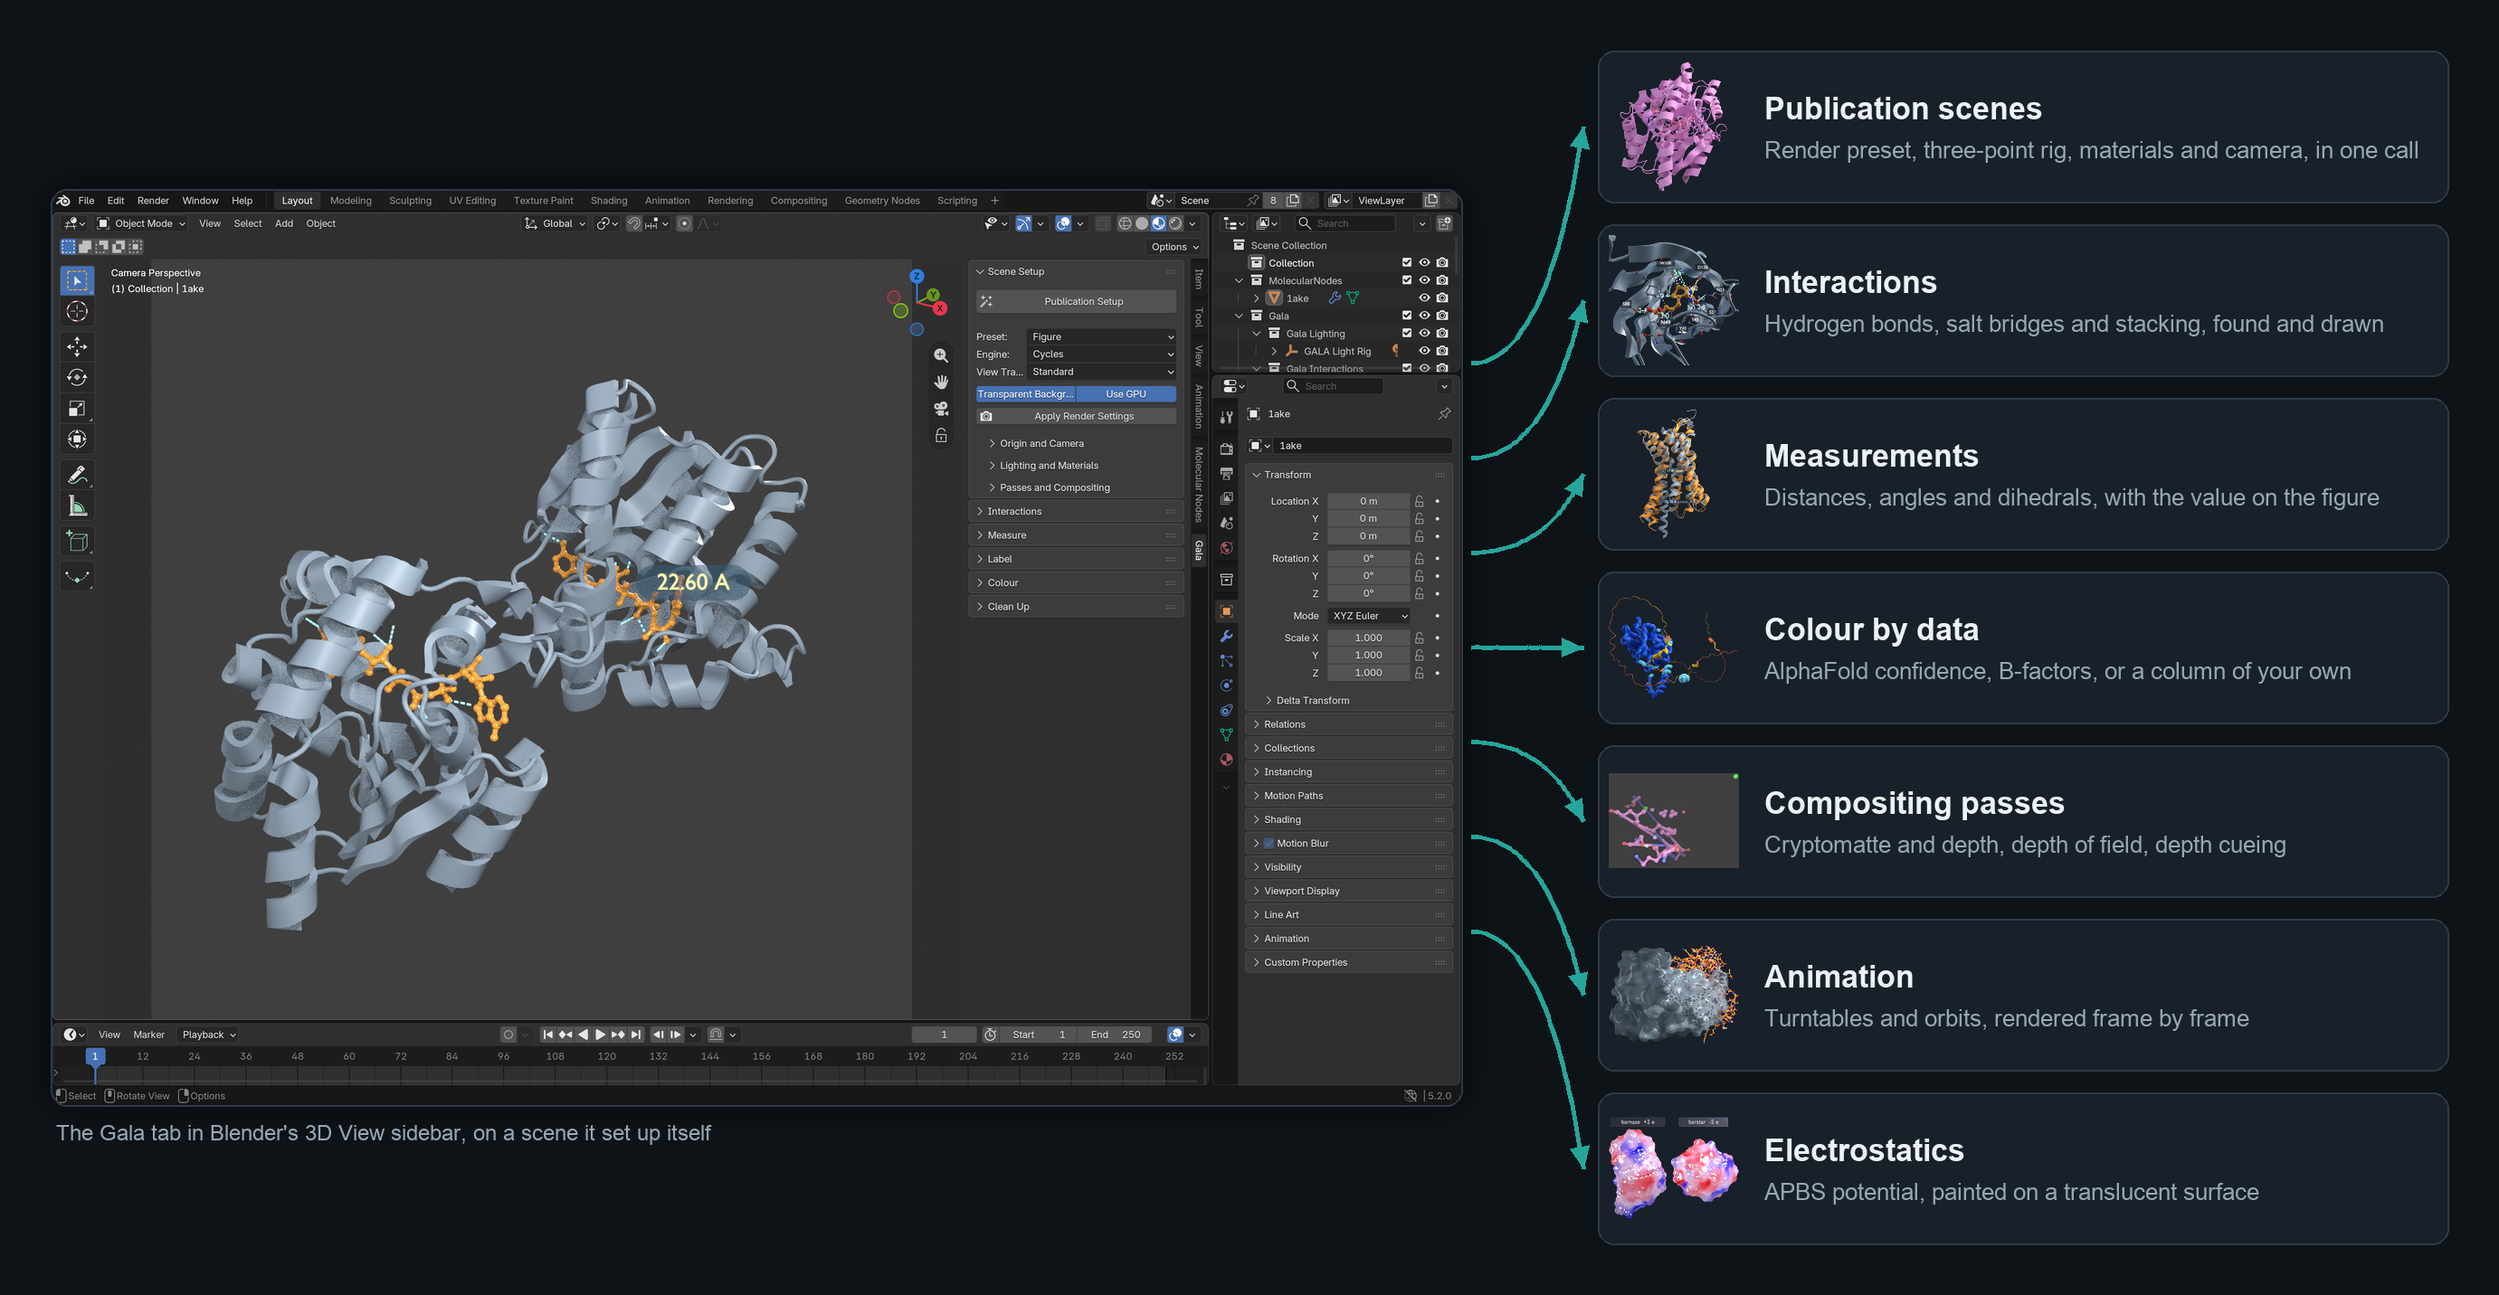
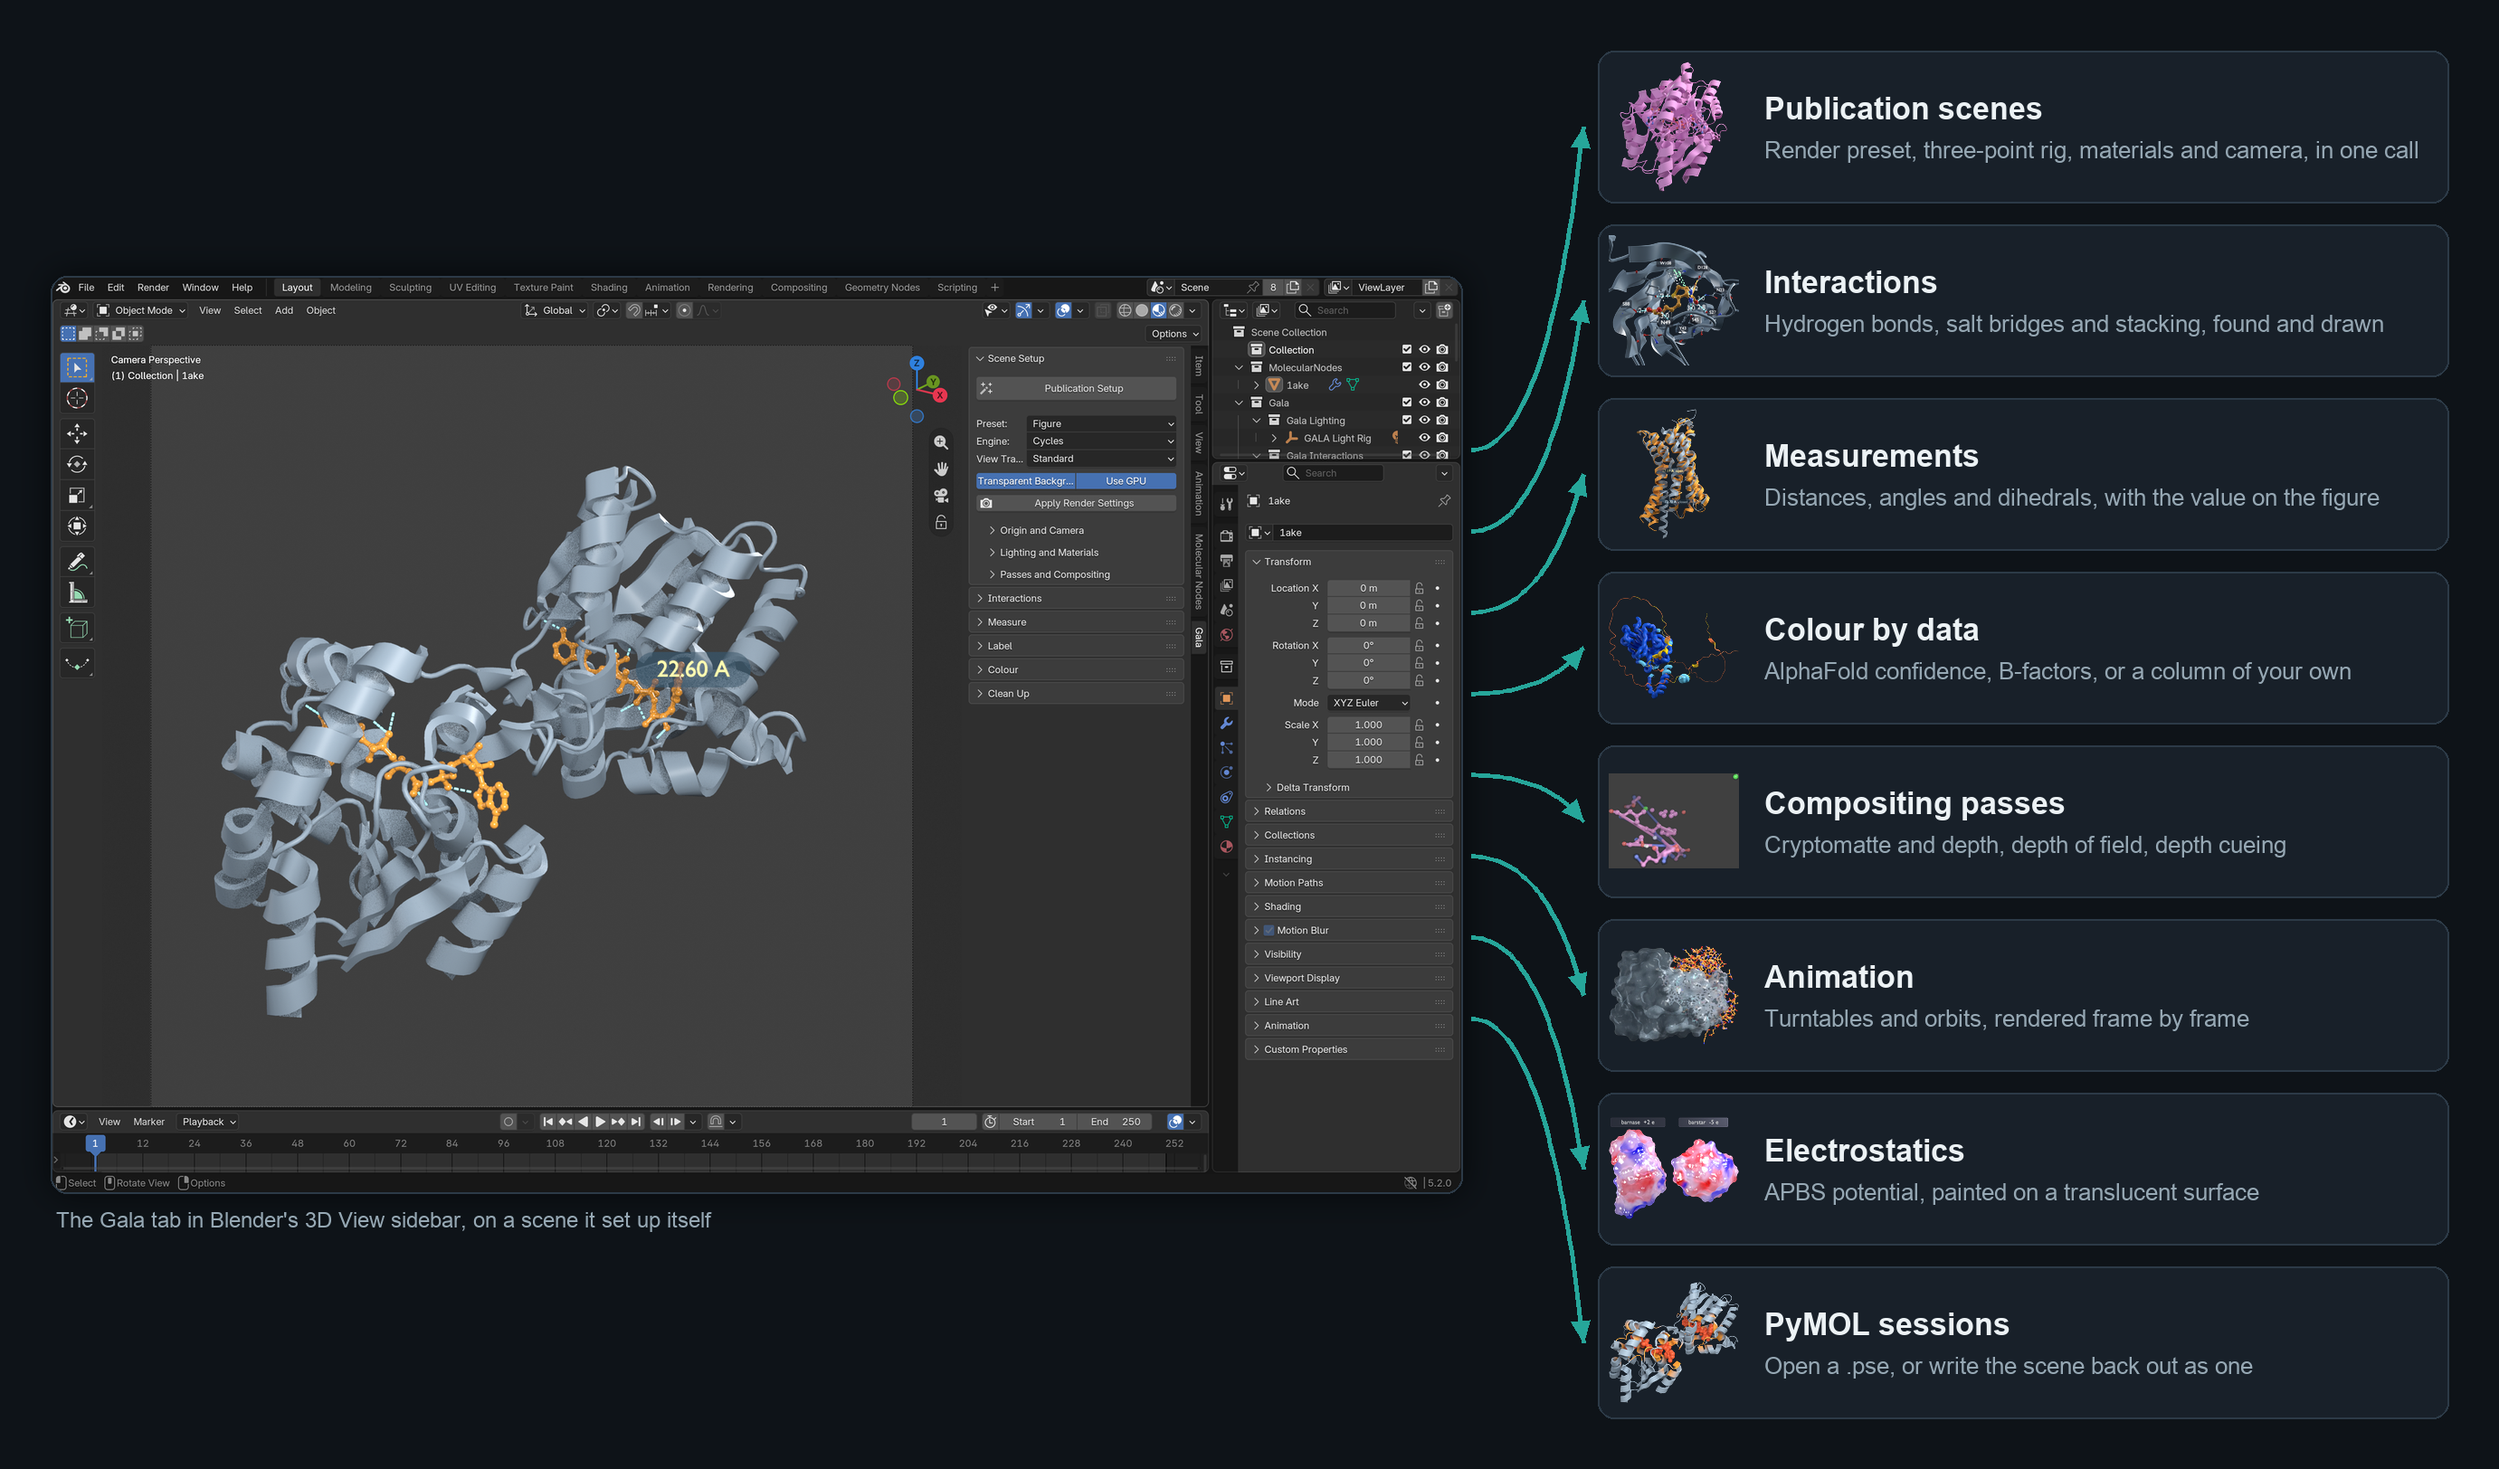
Close the gaps before submitting to extensions.blender.org
Sets the maintainer to a person with an address rather than a collective
noun, which is who a reviewer replies to; Molecular Nodes' own manifest shows
the Name <email> form is what the field takes even though the validator only
asks for a string.

Adds `support`, the optional field pointing at the issue tracker, and moves
`website` to the documentation site now that there is one — between them the
listing has somewhere to send a reader and somewhere to send a bug.

The preview images are the other half. The platform renders them as 16:9 and
every figure this project makes is square, so uploading them raw means the
platform letterboxes each one against a background of its choosing and the
transparent ones composite onto it unpredictably. `make listing` fits them
onto that canvas here instead. The hero they lead with had also fallen a
feature behind, so it gained the PyMOL card.

Left alone deliberately: version stays 0.1.0, which is honest and reversible
in one line, and `copyright` stays collective, since who holds it is not a
formatting question.

diff --git a/scripts/make_listing_images.py b/scripts/make_listing_images.py
@@ -1,0 +1,90 @@
+"""Compose the preview images for the extensions.blender.org listing.
+
+The platform renders previews as 16:9 thumbnails (1920x1080 and 640x360), and
+every figure this project produces is square or nearly so — a vignette render
+is 960x960, the hero is 1.93:1. Uploaded as they are, each one is letterboxed
+by the platform with whatever background it feels like, and the transparent
+ones composite onto it unpredictably.
+
+So this fits each figure onto a 16:9 canvas here, where the background is a
+decision rather than an accident, and writes them where they can be uploaded
+without further thought.
+
+    python scripts/make_listing_images.py        # or: make listing
+
+Nothing renders: this only rearranges images the vignettes already produced,
+so it is cheap to re-run after any of them changes.
+"""
+
+from __future__ import annotations
+
+import os
+
+from PIL import Image
+
+HERE = os.path.dirname(os.path.dirname(os.path.abspath(__file__)))
+IMAGE_DIR = os.path.join(HERE, "docs", "images")
+OUT_DIR = os.path.join(IMAGE_DIR, "listing")
+
+#: The thumbnail the platform renders. Matching it exactly means nothing is
+#: scaled twice.
+SIZE = (1920, 1080)
+
+#: Blender's own editor grey. A figure with a transparent background lands on
+#: this rather than on whatever the page happens to be.
+BACKGROUND = (24, 24, 24)
+
+#: Source figure, and the caption it illustrates on the listing. Ordered: the
+#: first is what someone sees before clicking anything.
+PREVIEWS = (
+    ("hero.png", "01-overview"),
+    ("01_publication_figure.png", "02-publication-figure"),
+    ("02_binding_site.png", "03-binding-site"),
+    ("03_measurements.png", "04-measurements"),
+    ("07_electrostatics.png", "05-electrostatics"),
+    ("08_pymol_session.png", "06-pymol-session"),
+)
+
+#: Fraction of the canvas the figure fills. Short of 1 so nothing touches the
+#: edge, which is what makes a thumbnail look cropped rather than composed.
+FILL = 0.94
+
+
+def compose(source: str, name: str) -> str | None:
+    """Fit one figure onto the 16:9 canvas and write it out."""
+    path = os.path.join(IMAGE_DIR, source)
+    if not os.path.exists(path):
+        print(f"  skipped {source}: not rendered yet")
+        return None
+
+    figure = Image.open(path).convert("RGBA")
+    canvas = Image.new("RGBA", SIZE, (*BACKGROUND, 255))
+
+    scale = min(SIZE[0] * FILL / figure.width, SIZE[1] * FILL / figure.height)
+    fitted = figure.resize(
+        (max(1, round(figure.width * scale)), max(1, round(figure.height * scale))),
+        Image.LANCZOS,
+    )
+    canvas.alpha_composite(
+        fitted,
+        ((SIZE[0] - fitted.width) // 2, (SIZE[1] - fitted.height) // 2),
+    )
+
+    target = os.path.join(OUT_DIR, f"{name}.png")
+    canvas.convert("RGB").save(target, optimize=True)
+    print(
+        f"  {os.path.basename(target):<26} {SIZE[0]}x{SIZE[1]}  "
+        f"{round(os.path.getsize(target) / 1024)} kB  from {source}"
+    )
+    return target
+
+
+def main() -> None:
+    os.makedirs(OUT_DIR, exist_ok=True)
+    written = [compose(source, name) for source, name in PREVIEWS]
+    print(f"\n{len([w for w in written if w])} preview(s) in {OUT_DIR}")
+    print("Upload them on the extension's page: Manage > Edit > Preview images.")
+
+
+if __name__ == "__main__":
+    main()

diff --git a/scripts/make_hero.py b/scripts/make_hero.py
@@ -60,6 +60,11 @@ CAPABILITIES = [
         "Electrostatics",
         "APBS potential, painted on a translucent surface",
     ),
+    (
+        "08_pymol_session.png",
+        "PyMOL sessions",
+        "Open a .pse, or write the scene back out as one",
+    ),
 ]
 
 # --- Geometry, in pixels of the finished image ----------------------------

diff --git a/docs/contributing.md b/docs/contributing.md
@@ -142,3 +142,36 @@ consistent with each other between runs.
 2. `make check`
 3. `make build` and test the resulting zip in a clean Blender.
 4. Tag and push; CI attaches the extension zip to the release.
+
+## Publishing to extensions.blender.org
+
+The manifest already satisfies the platform's upload checks — its validator
+requires, for an add-on specifically, that `license` include
+`SPDX:GPL-3.0-or-later`, that every tag be a known add-on tag, that `tagline`
+be at most 64 characters and end without punctuation, and that each
+`permissions` entry pair a known slug (`files`, `network`, `microphone`,
+`camera`) with a reason under the same rules.
+
+Before submitting:
+
+1. `make build`, and install the zip in a clean Blender to confirm it
+   registers.
+2. `make listing` composes the preview images into `docs/images/listing/`.
+   The platform renders previews as 16:9 and every figure here is square, so
+   they are fitted onto that canvas rather than left to be letterboxed.
+   Upload them under *Manage → Edit → Preview images*.
+3. Say in the submission notes what a reviewer will notice anyway: the
+   electrostatics feature runs APBS as a **subprocess** (user-initiated,
+   nothing bundled or downloaded), and loading a `.pse` **unpickles** it,
+   which is why the reader refuses every global outside a seven-name
+   allowlist.
+
+One thing to settle first. The manual says an add-on must be
+[self-contained](https://docs.blender.org/manual/en/latest/advanced/extensions/addons.rst)
+and bundle its dependencies. Gala deliberately does not: it uses the biotite,
+databpy and scipy that Molecular Nodes ships, because duplicating them would
+mean a second copy of ~150 MB of wheels and two versions of biotite on
+`sys.path` (SPECIFICATION D-1). Scene-level features work without Molecular
+Nodes and molecule-level ones raise a clear error, but whether that counts as
+self-contained is the reviewer's call, and worth asking before submitting
+rather than after.
